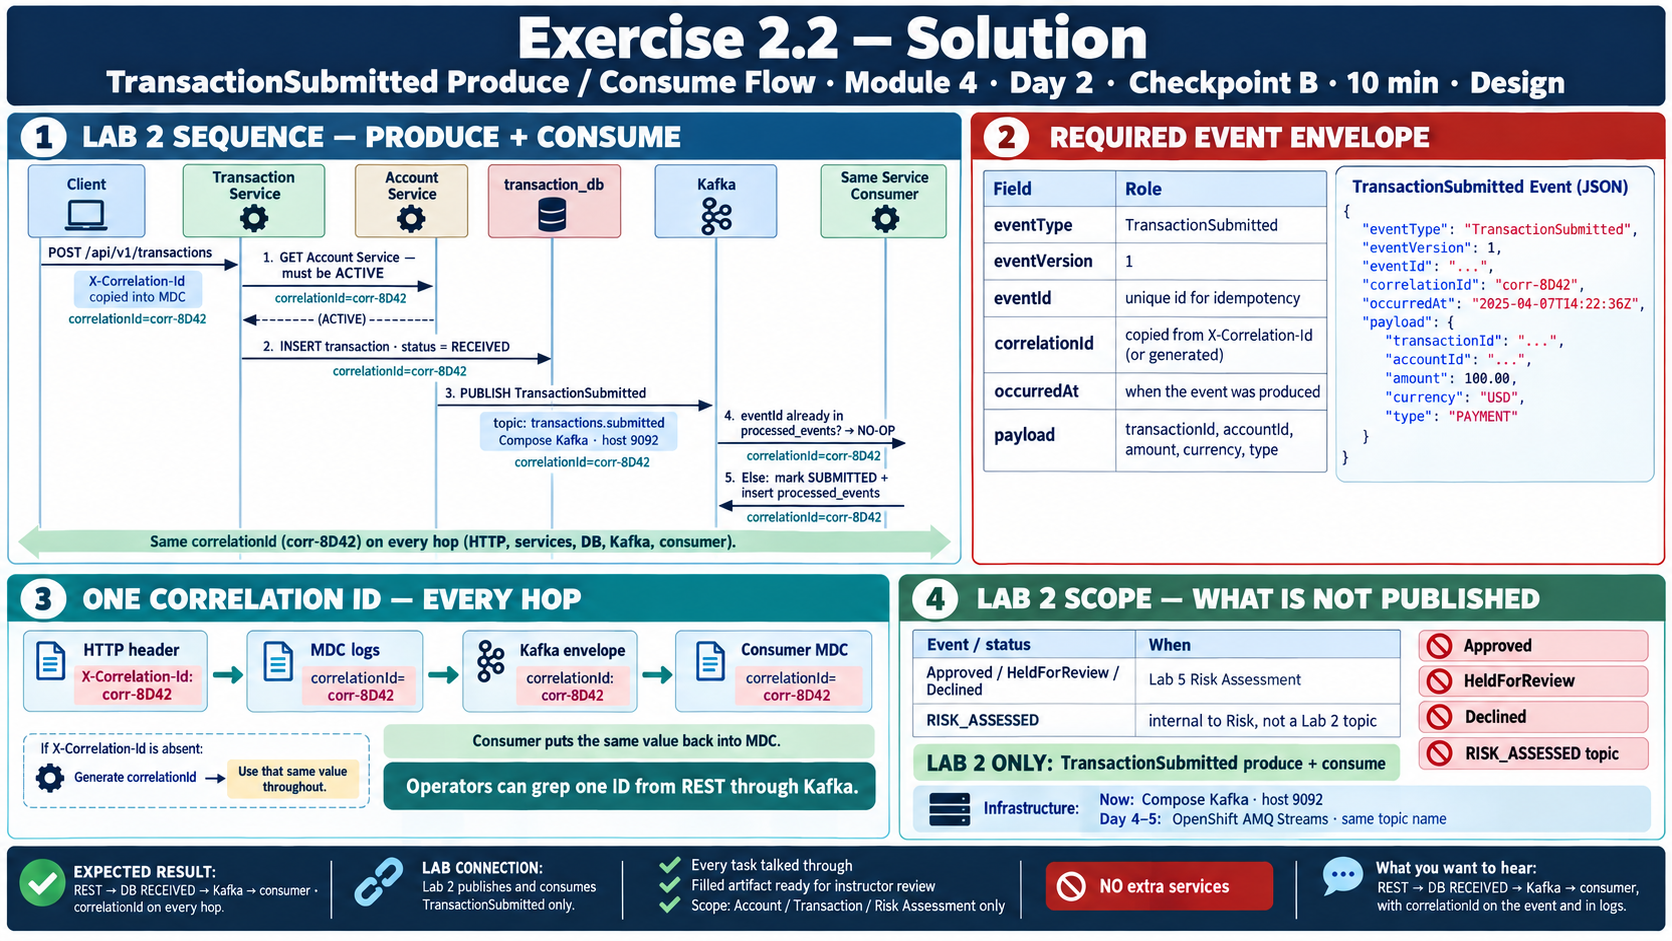
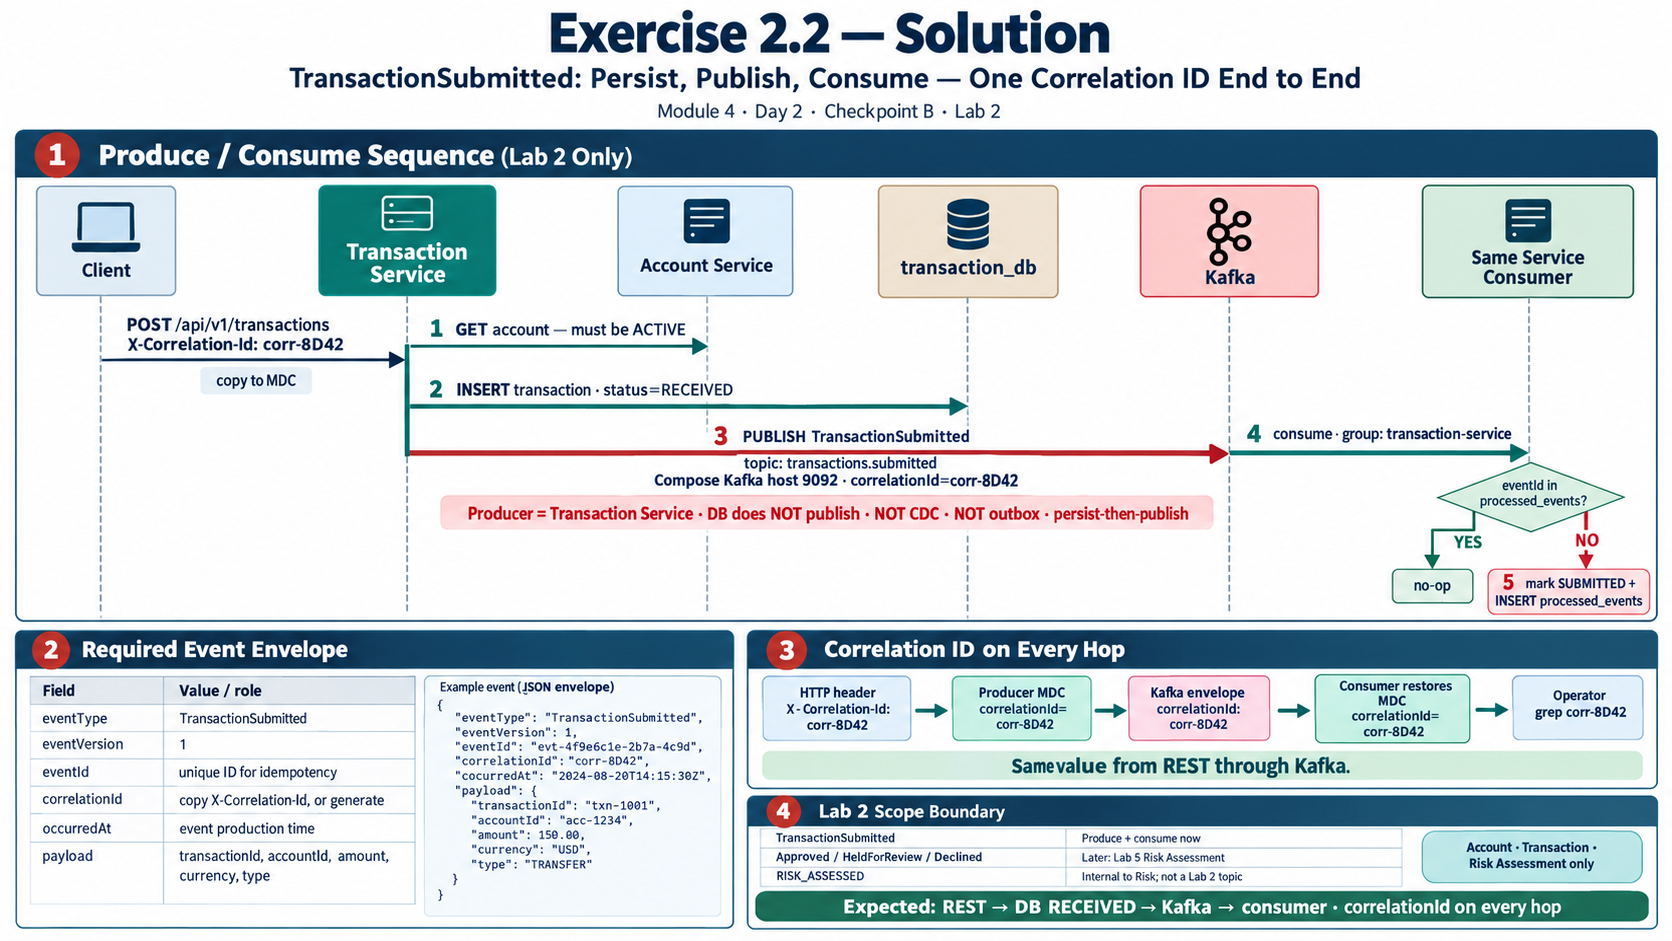
Align lab guides and checkpoints with the actual starter contracts.
Fixes wrong error codes, phantom TODOs, Lab 0 check-script wording, and the Lab 3 circuit-open demo so students follow what the code really does.

diff --git a/labs/day-03/lab3/LAB-3-GUIDE.md b/labs/day-03/lab3/LAB-3-GUIDE.md
@@ -35,7 +35,7 @@ Read this once before you type. Each idea shows up in a later step.
 | **Scopes** | `accounts.read` / `accounts.write` and `transactions.read` / `transactions.write`. |
 | **Workload vs user** | The human caller holds the JWT. Transaction Service **relays** that token to Account Service. |
 | **Timeout** | RestClient already uses a 2s connect / 3s read timeout. That is the timeout. |
-| **Circuit breaker** | Resilience4j wraps `AccountClient.requireActiveAccount`. Opens after **4** failed calls (50%); wait **10s**. |
+| **Circuit breaker** | Resilience4j wraps `AccountClient.requireActiveAccount`. Opens after **4** failed calls (`minimumNumberOfCalls: 4` at 50%; YAML `slidingWindowSize: 6`). Wait **10s**. The 5th call then fails fast (`Account circuit open`). |
 | **Safe fallback** | Fallback throws 503. It must **not** return a synthetic ACTIVE account. |
 | **409 does not trip it** | FROZEN or missing account is `ACCOUNT_NOT_ELIGIBLE`; listed in `ignoreExceptions`. |
 | **Log redaction** | Log `accountId` and `status`. Never log Bearer tokens or JWT claims. |
@@ -640,11 +640,11 @@ mvn spring-boot:run
 
 4. Stop **Account Service only** (**Terminal A**: **Ctrl+C**, then **`Y`**). Leave Transaction Service running.
 
-5. **Terminal C** — POST a transaction with `$OPS` **four times** (the breaker window is 4 calls / 50%). Re-issue `$OPS` if needed. Stay in the transaction-service folder so `requests\create-valid.json` exists:
+5. **Terminal C** — POST a transaction with `$OPS` **five times** (4 failures open the breaker; the 5th fails fast). Re-issue `$OPS` if needed. Stay in the transaction-service folder so `requests\create-valid.json` exists:
 
 ```powershell
 cd "$env:USERPROFILE\MD287\labs\day-03\lab3\starter\transaction-service"
-1..4 | ForEach-Object {
+1..5 | ForEach-Object {
   Write-Host "POST $_"
   curl.exe -s -w "`nHTTP:%{http_code}`n" `
     -H "Authorization: Bearer $OPS" `
@@ -654,7 +654,7 @@ cd "$env:USERPROFILE\MD287\labs\day-03\lab3\starter\transaction-service"
 }
 ```
 
-**Expected result:** each call **503** `ACCOUNT_SERVICE_UNAVAILABLE`. No `TransactionSubmitted` publish. **Terminal B** logs fallback or `Account circuit open` — still no token text.
+**Expected result:** each call **503** `ACCOUNT_SERVICE_UNAVAILABLE`. No `TransactionSubmitted` publish. The first four still reach AccountClient (Account is down). The fifth fails fast — **Terminal B** logs `Account circuit open`. Still no token text.
 
 6. Start Account Service again in **Terminal A**:
 

diff --git a/labs/day-02/lab2/LAB-2-GUIDE.md b/labs/day-02/lab2/LAB-2-GUIDE.md
@@ -688,7 +688,7 @@ mvn spring-boot:run
 
 You need an **ACTIVE** account. Lab 1 accounts that you **closed** will **409**. Create a **new** one.
 
-**Terminal C.** Stay in folders as written. Use **`curl.exe`**. Do **not** call `/transactions/TXN-YOUR-ID` — that literal string is not a transaction and returns **404**.
+**Terminal C.** Stay in folders as written. Use **`curl.exe`**. Do **not** call `/api/v1/transactions/TXN-YOUR-ID` — that literal string is not a transaction and returns **404**.
 
 1. Create and activate an account (Account Service on **8081**):
 
@@ -944,7 +944,7 @@ If you added `log.info(request.toString())` anywhere, remove it.
 | Account health down | Lab 1 `docker compose` + `mvn spring-boot:run` in `labs\day-01\lab1\starter\account-service`. |
 | `git pull`: not a git repository | You are in the home folder. `cd $env:USERPROFILE\MD287` then `git pull`. |
 | `destination path 'MD287' already exists` | Do not clone. You already have the repo. Run Step 0. |
-| `ACCOUNT_NOT_FOUND` for `TXN-YOUR-ID` | That string is a placeholder. Use the `transactionId` from your **201** body in `$txnId`. |
+| `TRANSACTION_NOT_FOUND` for `TXN-YOUR-ID` | That string is a placeholder. Use the `transactionId` from your **201** body in `$txnId`. |
 | `ACCOUNT_NOT_ELIGIBLE` on create | The account is not **ACTIVE** (PENDING, FROZEN, CLOSED, or missing). Create + activate a **new** Lab 1 account and update `requests\create-valid.json`. |
 | `ACCOUNT_SERVICE_UNAVAILABLE` | Account Service is not on **8081**, or `md287.account-service.base-url` is wrong. |
 | Status stuck on RECEIVED | Consumer exception in **Terminal B**; wait 2s and GET again; confirm Kafka is healthy and topic is `transactions.submitted`. |

diff --git a/labs/day-04/lab4/LAB-4-GUIDE.md b/labs/day-04/lab4/LAB-4-GUIDE.md
@@ -746,7 +746,7 @@ curl.exe -sk https://$ROUTE_HOST/actuator/info
 | `id` still shows root | `USER md287` missing; rebuild `docker build --no-cache ...` |
 | Readiness never 200 | Postgres/Kafka not healthy; `docker compose ps` and `docker logs md287-lab4-account` |
 | Transaction stays RECEIVED | Wait 2s and GET `$txnId` again; `kafka-init` must complete |
-| `ACCOUNT_NOT_FOUND` for `ACC-YOUR-ID` / `TXN-YOUR-ID` | Placeholders. Use the id from your **201** body. |
+| `ACCOUNT_NOT_FOUND` for `ACC-YOUR-ID` / `TRANSACTION_NOT_FOUND` for `TXN-YOUR-ID` | Placeholders. Use the id from your **201** body. |
 | 401 with a token | Re-run `issue-jwt.py` into `$TELLER` / `$OPS`. Use `curl.exe`. Same secret as Lab 3. |
 | 503 on POST transaction | Account container not ready — Lab 3 safe fallback, **do not** fake ACTIVE |
 | `oc whoami` failed | Required. Use OpenShift `studentNN`, not Ablaze `MSMICR26-NN`. Get login from [LAB-ACCESS.md](../../../LAB-ACCESS.md). |

diff --git a/labs/day-01/exercises/exercise-1.3-scaffold-account.md b/labs/day-01/exercises/exercise-1.3-scaffold-account.md
@@ -11,7 +11,7 @@ This is the official OUTLINE.md checkpoint. Complete it before or as directed in
 
 ## Do this
 
-1. Open labs/day-01/lab1/starter and find controller, service, DTO, and validation TODOs
+1. Open labs/day-01/lab1/starter/account-service. TODOs are only in AccountService (create/get/update/activate/freeze/close). The controller is already mapped. DTOs have no validation annotations yet — Lab 1 Step 6 adds them.
 2. Name the layers: Controller → Service → Repository → PostgreSQL (Flyway, not Hibernate DDL)
 3. List validation rules you will enforce (customerId CUST- plus four digits, nickname length, legal status change). accountId is generated
 4. Confirm logs will use accountId/status only — no request bodies or PII. GitHub Copilot (Free, already on this VM) can explain the starter TODOs; **review before accept** — do not skip into generated Lab 2 code.

diff --git a/labs/day-05/lab5/LAB-5-GUIDE.md b/labs/day-05/lab5/LAB-5-GUIDE.md
@@ -206,7 +206,7 @@ cd "$env:USERPROFILE\MD287\labs\day-05\lab5\starter\risk-assessment-service"
 mvn test
 ```
 
-**Expected result:** `PolicyEngineTest` fails with `UnsupportedOperationException` / TODO. `AssessmentSecurityTest` fails until Step 5. That is expected. Do **not** copy a `solution/` tree.
+**Expected result:** `PolicyEngineTest` fails with `UnsupportedOperationException` / TODO. `AssessmentServiceTest.modelTimeoutStoresHold` also fails until Step 3 (it constructs a real `PolicyEngine`). `AssessmentSecurityTest` fails until Step 5. Duplicate-event and review tests can already pass. That is expected. Do **not** copy a `solution/` tree.
 
 **Why this matters:** The red tests are the spec. Green tests after you paste are the proof.
 

diff --git a/labs/day-03/exercises/exercise-3.3-security-resilience-tests.md b/labs/day-03/exercises/exercise-3.3-security-resilience-tests.md
@@ -12,7 +12,7 @@ This is the official OUTLINE.md checkpoint. Complete it before or as directed in
 ## Do this
 
 1. Unit-test 401/403 on a protected Account or Transaction endpoint
-2. Unit-test circuit-open → 503 fallback (no fake ACTIVE account)
+2. Unit-test circuit-open → `CallNotPermittedException` (fail-fast). HTTP 503 `ACCOUNT_SERVICE_UNAVAILABLE` is the REST handler — the unit test does not call MockMvc
 3. Name AccountPersistenceTest — Testcontainers Postgres 16; Docker must be running for mvn test
 4. Testcontainers is required for that integration test, not optional awareness
 

diff --git a/labs/day-04/lab4/tools/README.md b/labs/day-04/lab4/tools/README.md
@@ -4,6 +4,7 @@ Use these from `labs\day-04\lab4` as in [LAB-4-GUIDE.md](../LAB-4-GUIDE.md). Do 
 
 | Script / file | Purpose |
 | --- | --- |
+| `push-images.ps1` | Tag and push `md287/account-service:1.0.0` and `md287/transaction-service:1.0.0` to the assigned OpenShift project (Lab 4 Step 5) |
 | `generate-sbom.ps1` | Syft if installed; otherwise copies the classroom CycloneDX sample |
 | `sample-sbom-account-service.json` | Fallback SBOM for review |
 | `scan-gate.ps1` | Exit 1 if any CRITICAL finding exists |

diff --git a/labs/day-00/lab0/LAB-0-GUIDE.md b/labs/day-00/lab0/LAB-0-GUIDE.md
@@ -102,7 +102,7 @@ powershell -ExecutionPolicy Bypass -File "labs\day-00\lab0\tools\check-environme
 
 **Expected last line:** `LAB 0 ENVIRONMENT: PASS`
 
-Every row should be **PASS**. Warnings are OK. If **FAIL**, raise a hand and re-run after the fix.
+Every row should be **PASS**. Warnings are OK — if a port is already in use the script prints `PASS WITH WARNINGS`, which is also success. If **FAIL**, raise a hand and re-run after the fix.
 
 ---
 
